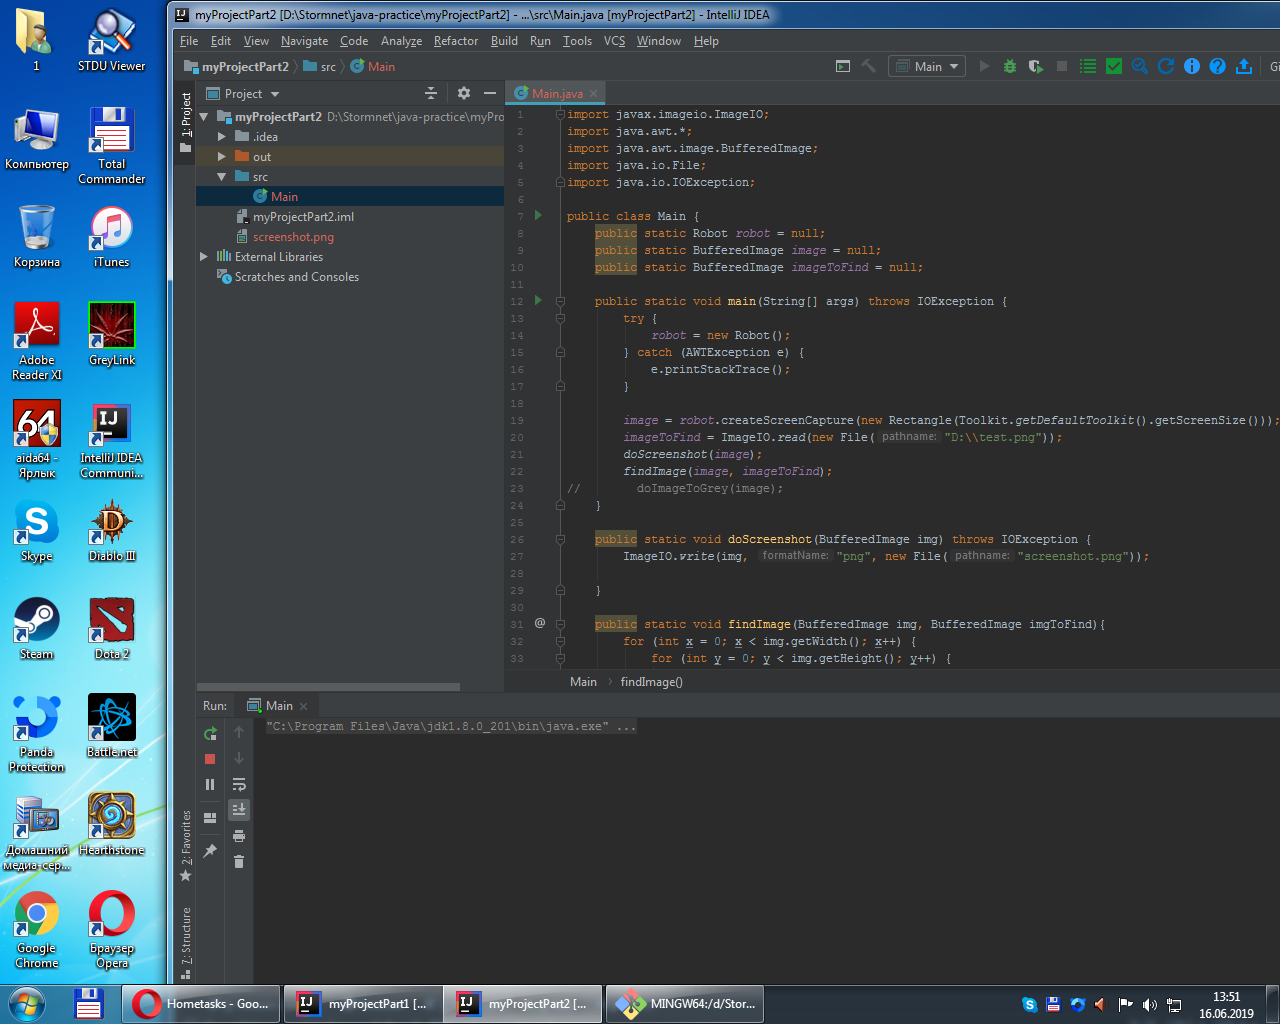
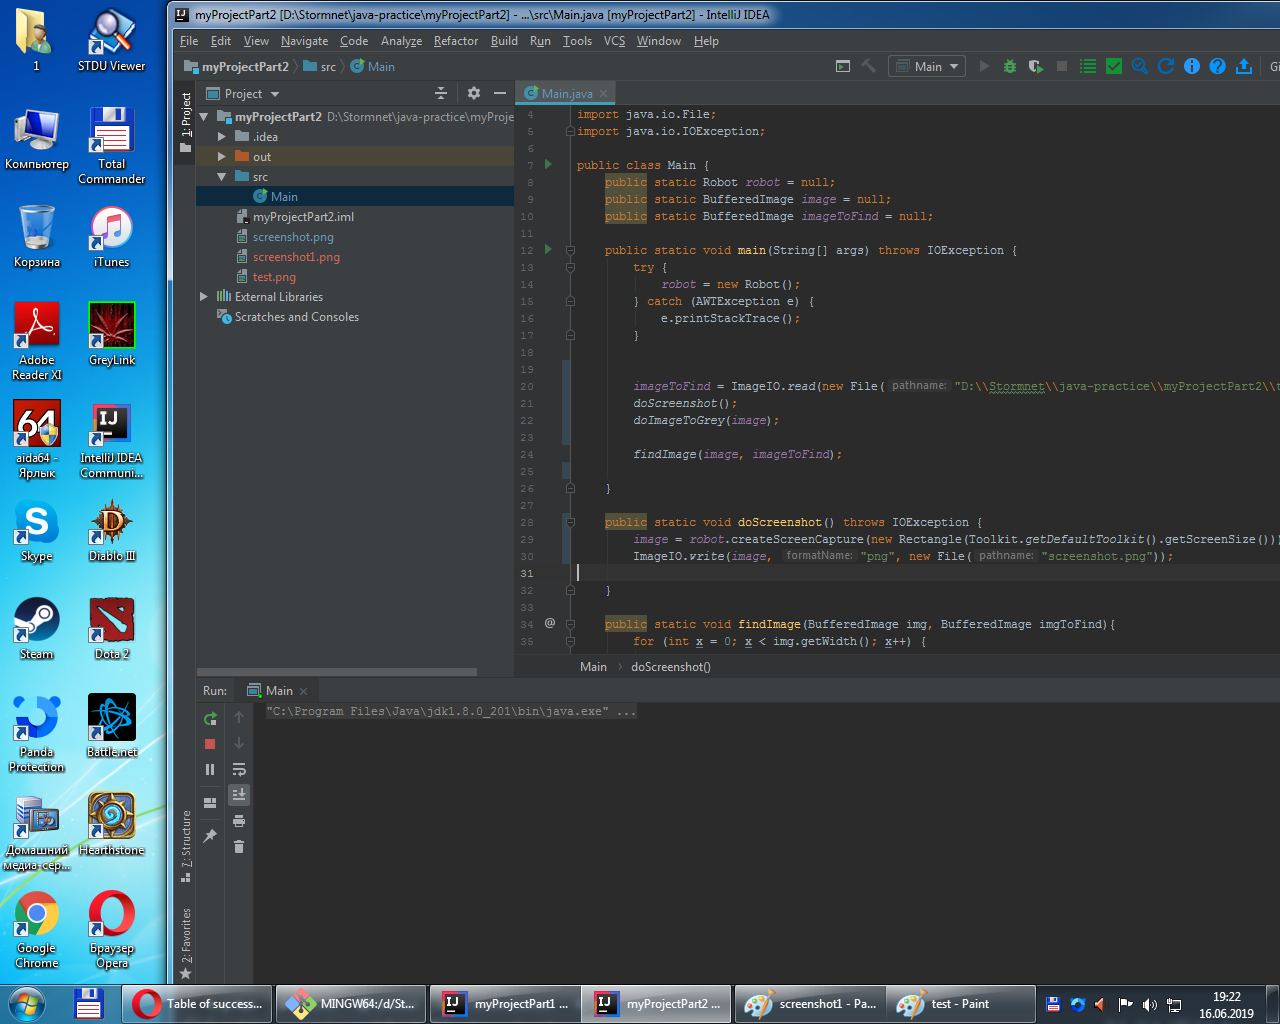
myProjectPart2

diff --git a/myProjectPart2/src/Main.java b/myProjectPart2/src/Main.java
@@ -16,15 +16,18 @@ public class Main {
             e.printStackTrace();
         }
 
-        image = robot.createScreenCapture(new Rectangle(Toolkit.getDefaultToolkit().getScreenSize()));
-        imageToFind = ImageIO.read(new File("D:\\test.png"));
-        doScreenshot(image);
+
+        imageToFind = ImageIO.read(new File("D:\\Stormnet\\java-practice\\myProjectPart2\\test.png"));
+        doScreenshot();
+        doImageToGrey(image);
+
         findImage(image, imageToFind);
-//        doImageToGrey(image);
+
     }
 
-    public static void doScreenshot(BufferedImage img) throws IOException {
-        ImageIO.write(img, "png", new File("screenshot.png"));
+    public static void doScreenshot() throws IOException {
+        image = robot.createScreenCapture(new Rectangle(Toolkit.getDefaultToolkit().getScreenSize()));
+        ImageIO.write(image, "png", new File("screenshot.png"));
 
     }
 
@@ -56,18 +59,18 @@ public class Main {
             }
         }
     }
-//    public static void doImageToGrey(BufferedImage img) throws IOException {
-//
-//        for (int i = 0; i < img.getWidth(); i++) {
-//            for (int j = 0; j < img.getHeight(); j++) {
-//                int rgb = img.getRGB(i, j);
-//                int r = (rgb >> 16) & 0xff;
-//                int g = (rgb >> 8) & 0xff;
-//                int b = rgb & 0xff;
-//                int k = (int) (.2126 * r + .7152 * g + .0722 * b);
-//                img.setRGB(i, j, (k << 16) | (k << 8) | k);
-//            }
-//        }
-//        ImageIO.write(img, "png", new File("screenshot1.png"));
-//    }
+    public static void doImageToGrey(BufferedImage img) throws IOException {
+
+        for (int i = 0; i < img.getWidth(); i++) {
+            for (int j = 0; j < img.getHeight(); j++) {
+                int rgb = img.getRGB(i, j);
+                int r = (rgb >> 16) & 0xff;
+                int g = (rgb >> 8) & 0xff;
+                int b = rgb & 0xff;
+                int k = (int) (.2126 * r + .7152 * g + .0722 * b);
+                img.setRGB(i, j, (k << 16) | (k << 8) | k);
+            }
+        }
+        ImageIO.write(img, "png", new File("screenshot1.png"));
+    }
 }
